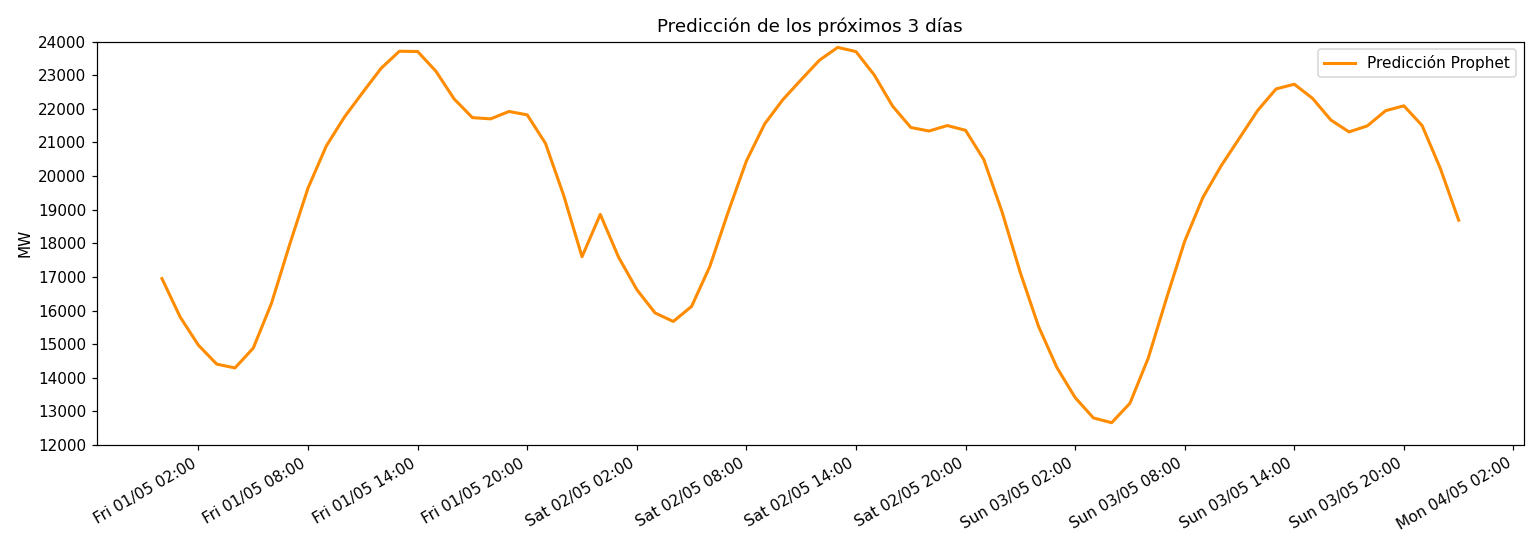
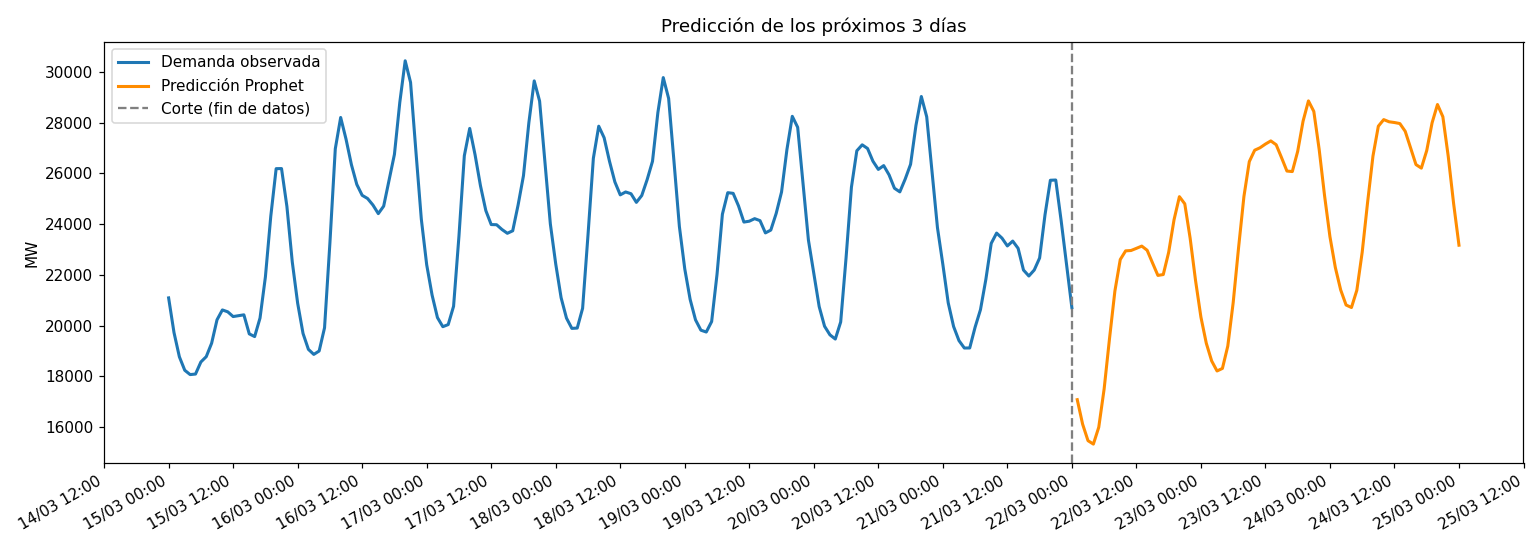
Mejora del clima en prophet. Se cambia grafica para prophet_final

diff --git a/src/models/Prophet/prophet_final.py b/src/models/Prophet/prophet_final.py
@@ -7,13 +7,14 @@ import os
 
 # Definicion de ficheros
 CARPETA_SCRIPT = os.path.dirname(os.path.abspath(__file__))
-FICHERO = os.path.join(CARPETA_SCRIPT, "..", "Trabajo Miguel", "data", "processed", "dataset_modelado.csv")
+FICHERO = os.path.join(CARPETA_SCRIPT, "..", "..", "..", "Trabajo Miguel", "data", "processed", "dataset_modelado.csv")
 FICHERO_GRAFICA = os.path.join(CARPETA_SCRIPT, "imagenes_Generadas", "prophet_final.png")
 
 # Variables globales, editar a necesidad
 REGRESORES = ["HDD", "CDD", "humedad_relativa", "velocidad_viento", "radiacion_solar"]
-INTERVALO_HORAS_GRAFICA = 6
+INTERVALO_HORAS_GRAFICA = 12
 DIAS_A_PREDECIR = 3
+DIAS_HISTORICO_GRAFICA = 7   # cuántos días reales previos mostrar en el gráfico
 
 df = pd.read_csv(FICHERO, parse_dates=["datetime"])
 
@@ -38,13 +39,46 @@ modelo.fit(d)
 # Generamos las fechas futuras (las próximas DIAS_A_PREDECIR, hora a hora)
 futuro = modelo.make_future_dataframe(periods=DIAS_A_PREDECIR * 24, freq="h")
 
-# El clima futuro no existe en nuestros datos. Aproximación: repetir el último
-# valor conocido de cada regresor en todas las horas futuras.
-# (En producción real, aquí iría la previsión meteorológica de Open-Meteo/AEMET)
+
+def imputar_clima_futuro(historico, futuro):
+    """
+    Estima el clima de las fechas futuras con perfiles históricos medios.
+    Prioridad: media por (mes, hora); si falta, media por hora; si falta, media global.
+    Mismo criterio que sarimax_final.py, para que ambos modelos traten igual el clima futuro.
+    """
+    historico = historico.copy()
+    historico["mes"] = historico["ds"].dt.month
+    historico["hora"] = historico["ds"].dt.hour
+
+    futuro = futuro.copy()
+    futuro["mes"] = futuro["ds"].dt.month
+    futuro["hora"] = futuro["ds"].dt.hour
+
+    for variable in REGRESORES:
+        perfil_mes_hora = historico.groupby(["mes", "hora"])[variable].mean()
+        perfil_hora = historico.groupby("hora")[variable].mean()
+        media_global = historico[variable].mean()
+
+        valores = []
+        for _, fila in futuro.iterrows():
+            clave = (fila["mes"], fila["hora"])
+            if clave in perfil_mes_hora.index:
+                valores.append(perfil_mes_hora.loc[clave])
+            elif fila["hora"] in perfil_hora.index:
+                valores.append(perfil_hora.loc[fila["hora"]])
+            else:
+                valores.append(media_global)
+        futuro[variable] = valores
+
+    return futuro
+
+
+# Rellenamos el clima: las fechas conocidas con su valor real, las futuras con perfiles
 futuro = futuro.merge(d[["ds"] + REGRESORES], on="ds", how="left")
-ultimo_valor = d[REGRESORES].iloc[-1]
+mask_futuro = futuro["ds"] > d["ds"].max()
+imputado = imputar_clima_futuro(d, futuro[mask_futuro])
 for variable in REGRESORES:
-    futuro[variable] = futuro[variable].fillna(ultimo_valor[variable])
+    futuro.loc[mask_futuro, variable] = imputado[variable].values
 
 prediccion = modelo.predict(futuro)
 
@@ -52,24 +86,25 @@ prediccion = modelo.predict(futuro)
 nuevas = prediccion[prediccion["ds"] > d["ds"].max()]
 print(nuevas[["ds", "yhat"]].to_string(index=False))
 
-# Pintar grafica comparativa
+# ---------------------------------------------------------------------------
+# Gráfica: demanda real de los últimos días + predicción, con línea de corte
+# ---------------------------------------------------------------------------
+fecha_corte = d["ds"].max()                                  # última hora conocida
+inicio_historico = fecha_corte - pd.Timedelta(days=DIAS_HISTORICO_GRAFICA)
+historico_reciente = d[d["ds"] >= inicio_historico]          # días reales previos
+
 plt.figure(figsize=(14, 5))
-plt.plot(nuevas.set_index("ds")["yhat"], label="Predicción Prophet", linewidth=2, color="darkorange")
+plt.plot(historico_reciente["ds"], historico_reciente["y"],
+         label="Demanda observada", linewidth=2)
+plt.plot(nuevas["ds"], nuevas["yhat"],
+         label="Predicción Prophet", linewidth=2, color="darkorange")
+plt.axvline(fecha_corte, linestyle="--", color="gray", label="Corte (fin de datos)")
 plt.legend()
 plt.ylabel("MW")
 plt.title(f"Predicción de los próximos {DIAS_A_PREDECIR} días")
 
-# Eje vertical: ya no hay 'real', solo la predicción
-estimado = nuevas.set_index("ds")["yhat"]
-limite_inferior = int(estimado.min() // 1000) * 1000
-limite_superior = int(estimado.max() // 1000) * 1000 + 1000
-
-plt.ylim(limite_inferior, limite_superior)
-plt.yticks(np.arange(limite_inferior, limite_superior + 1000, 1000))
-
-# Eje horizontal: igual que en el otro script
 plt.gca().xaxis.set_major_locator(mdates.HourLocator(interval=INTERVALO_HORAS_GRAFICA))
-plt.gca().xaxis.set_major_formatter(mdates.DateFormatter("%a %d/%m %H:%M"))
+plt.gca().xaxis.set_major_formatter(mdates.DateFormatter("%d/%m %H:%M"))
 plt.gcf().autofmt_xdate()
 
 plt.tight_layout()
